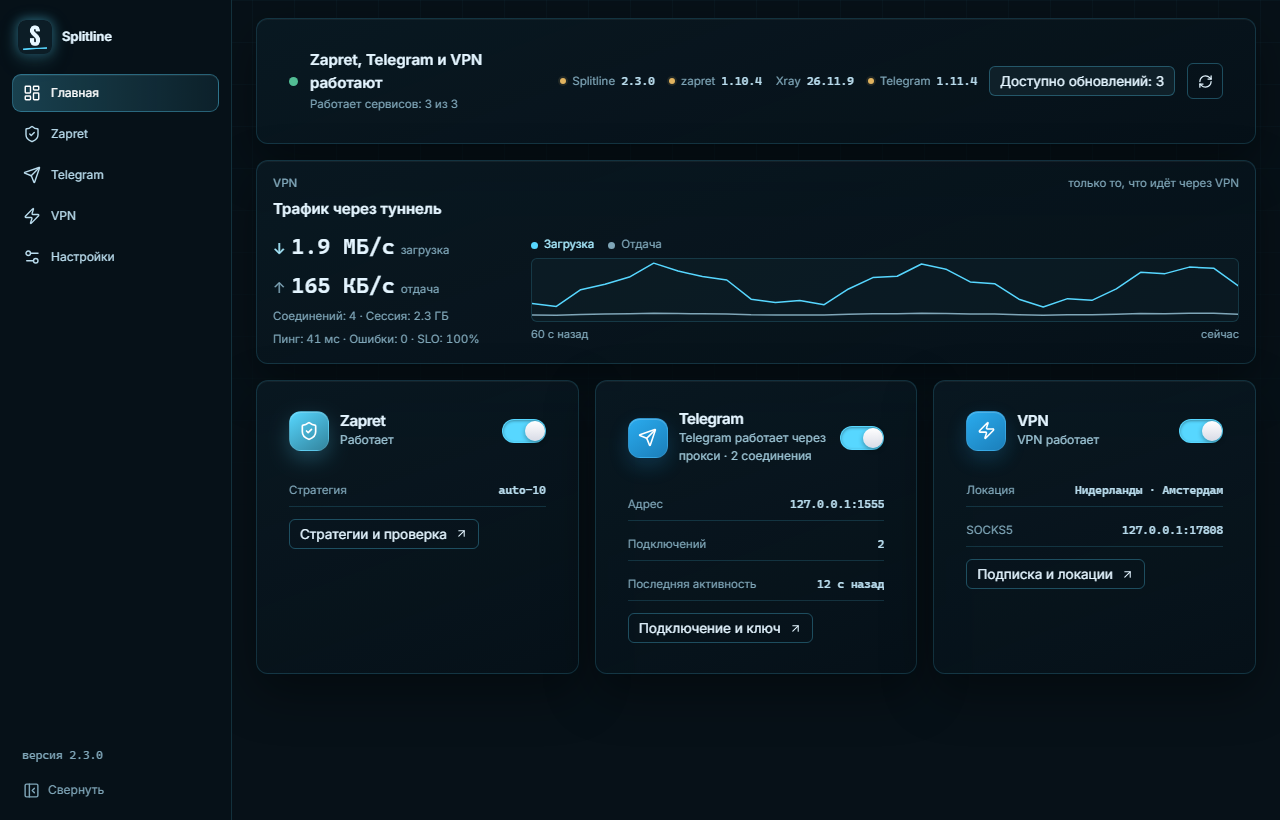
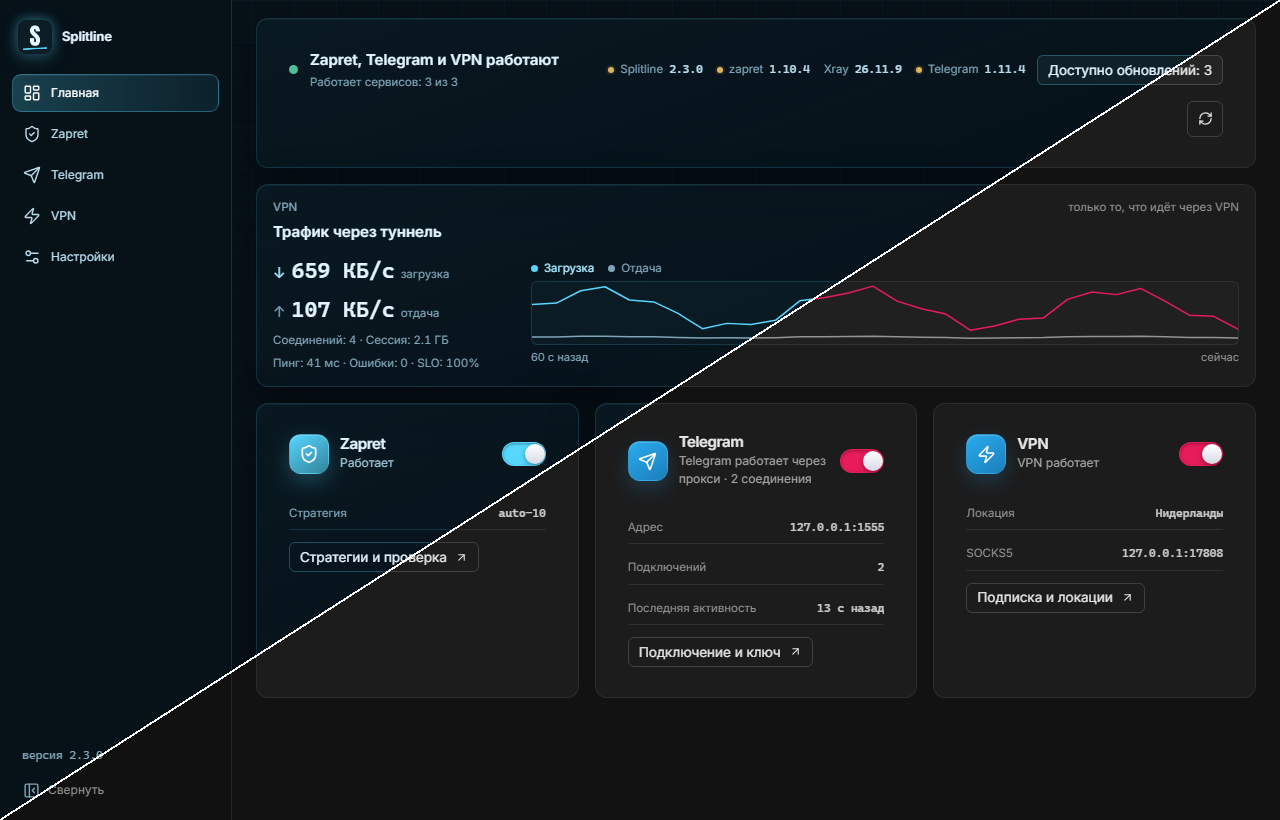
docs: show both themes in every screenshot

diff --git a/README.md b/README.md
@@ -25,7 +25,11 @@
 </p>
 
 <p align="center">
-  <img src="screenshots/overview.png" width="860" alt="Главная: состояние сервисов, версии компонентов, график трафика и пинг локации" />
+  <img src="screenshots/overview.png" width="860" alt="Главная: состояние сервисов, версии компонентов, график трафика и пинг локации; две темы" />
+</p>
+
+<p align="center">
+  <sub>На скриншотах обе темы сразу: сверху слева — «Спутник», снизу справа — «Кармин».</sub>
 </p>
 
 Splitline закрывает три разные задачи одним приложением:
